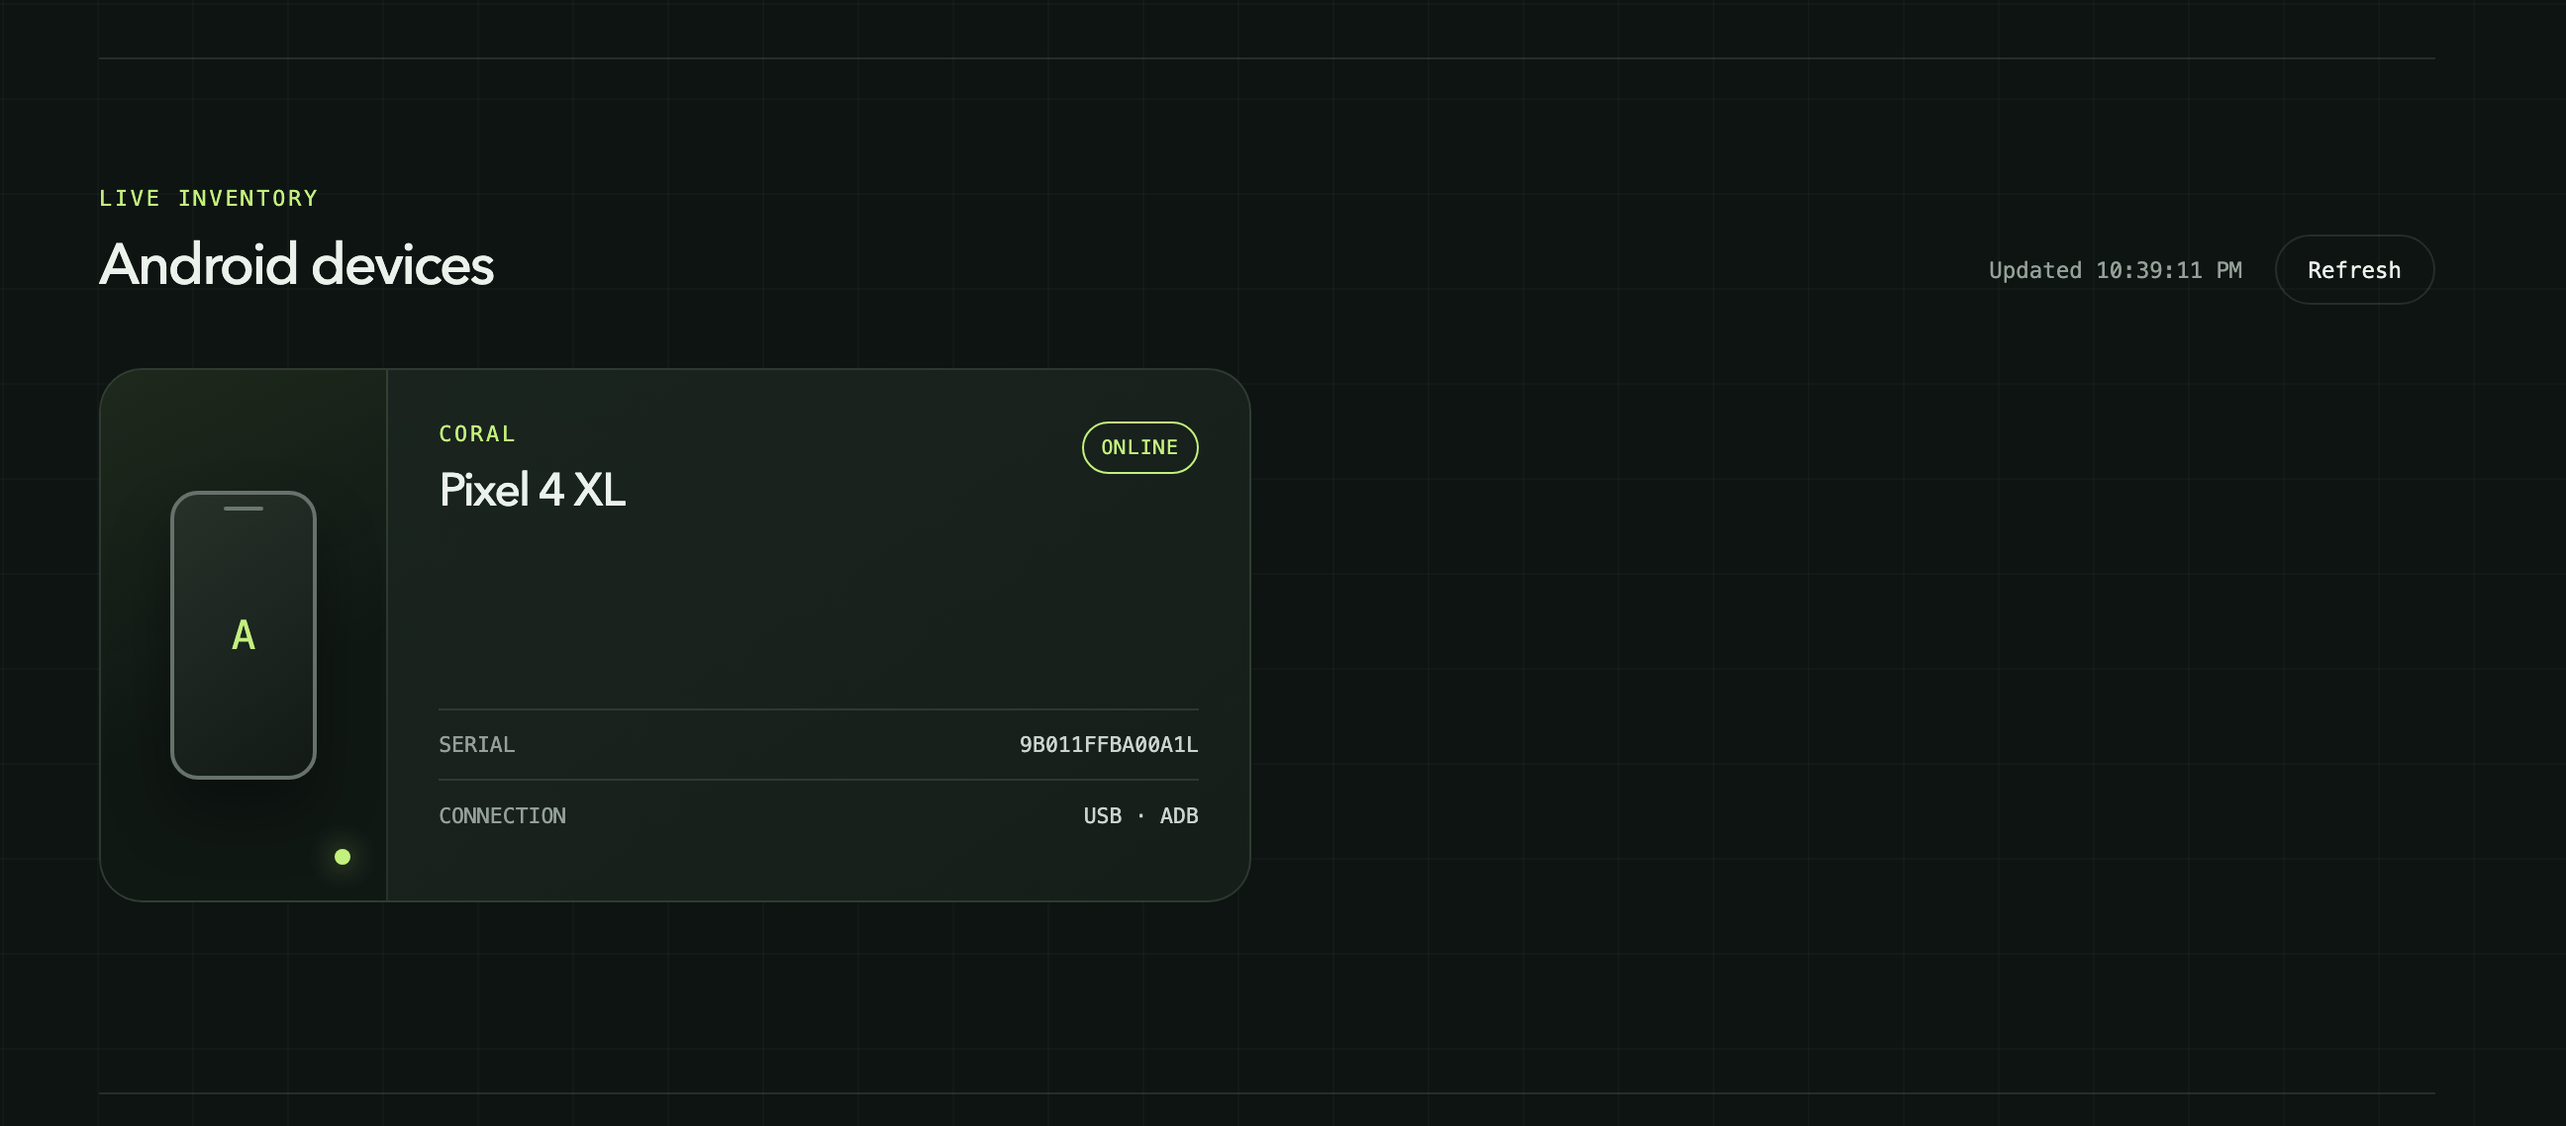
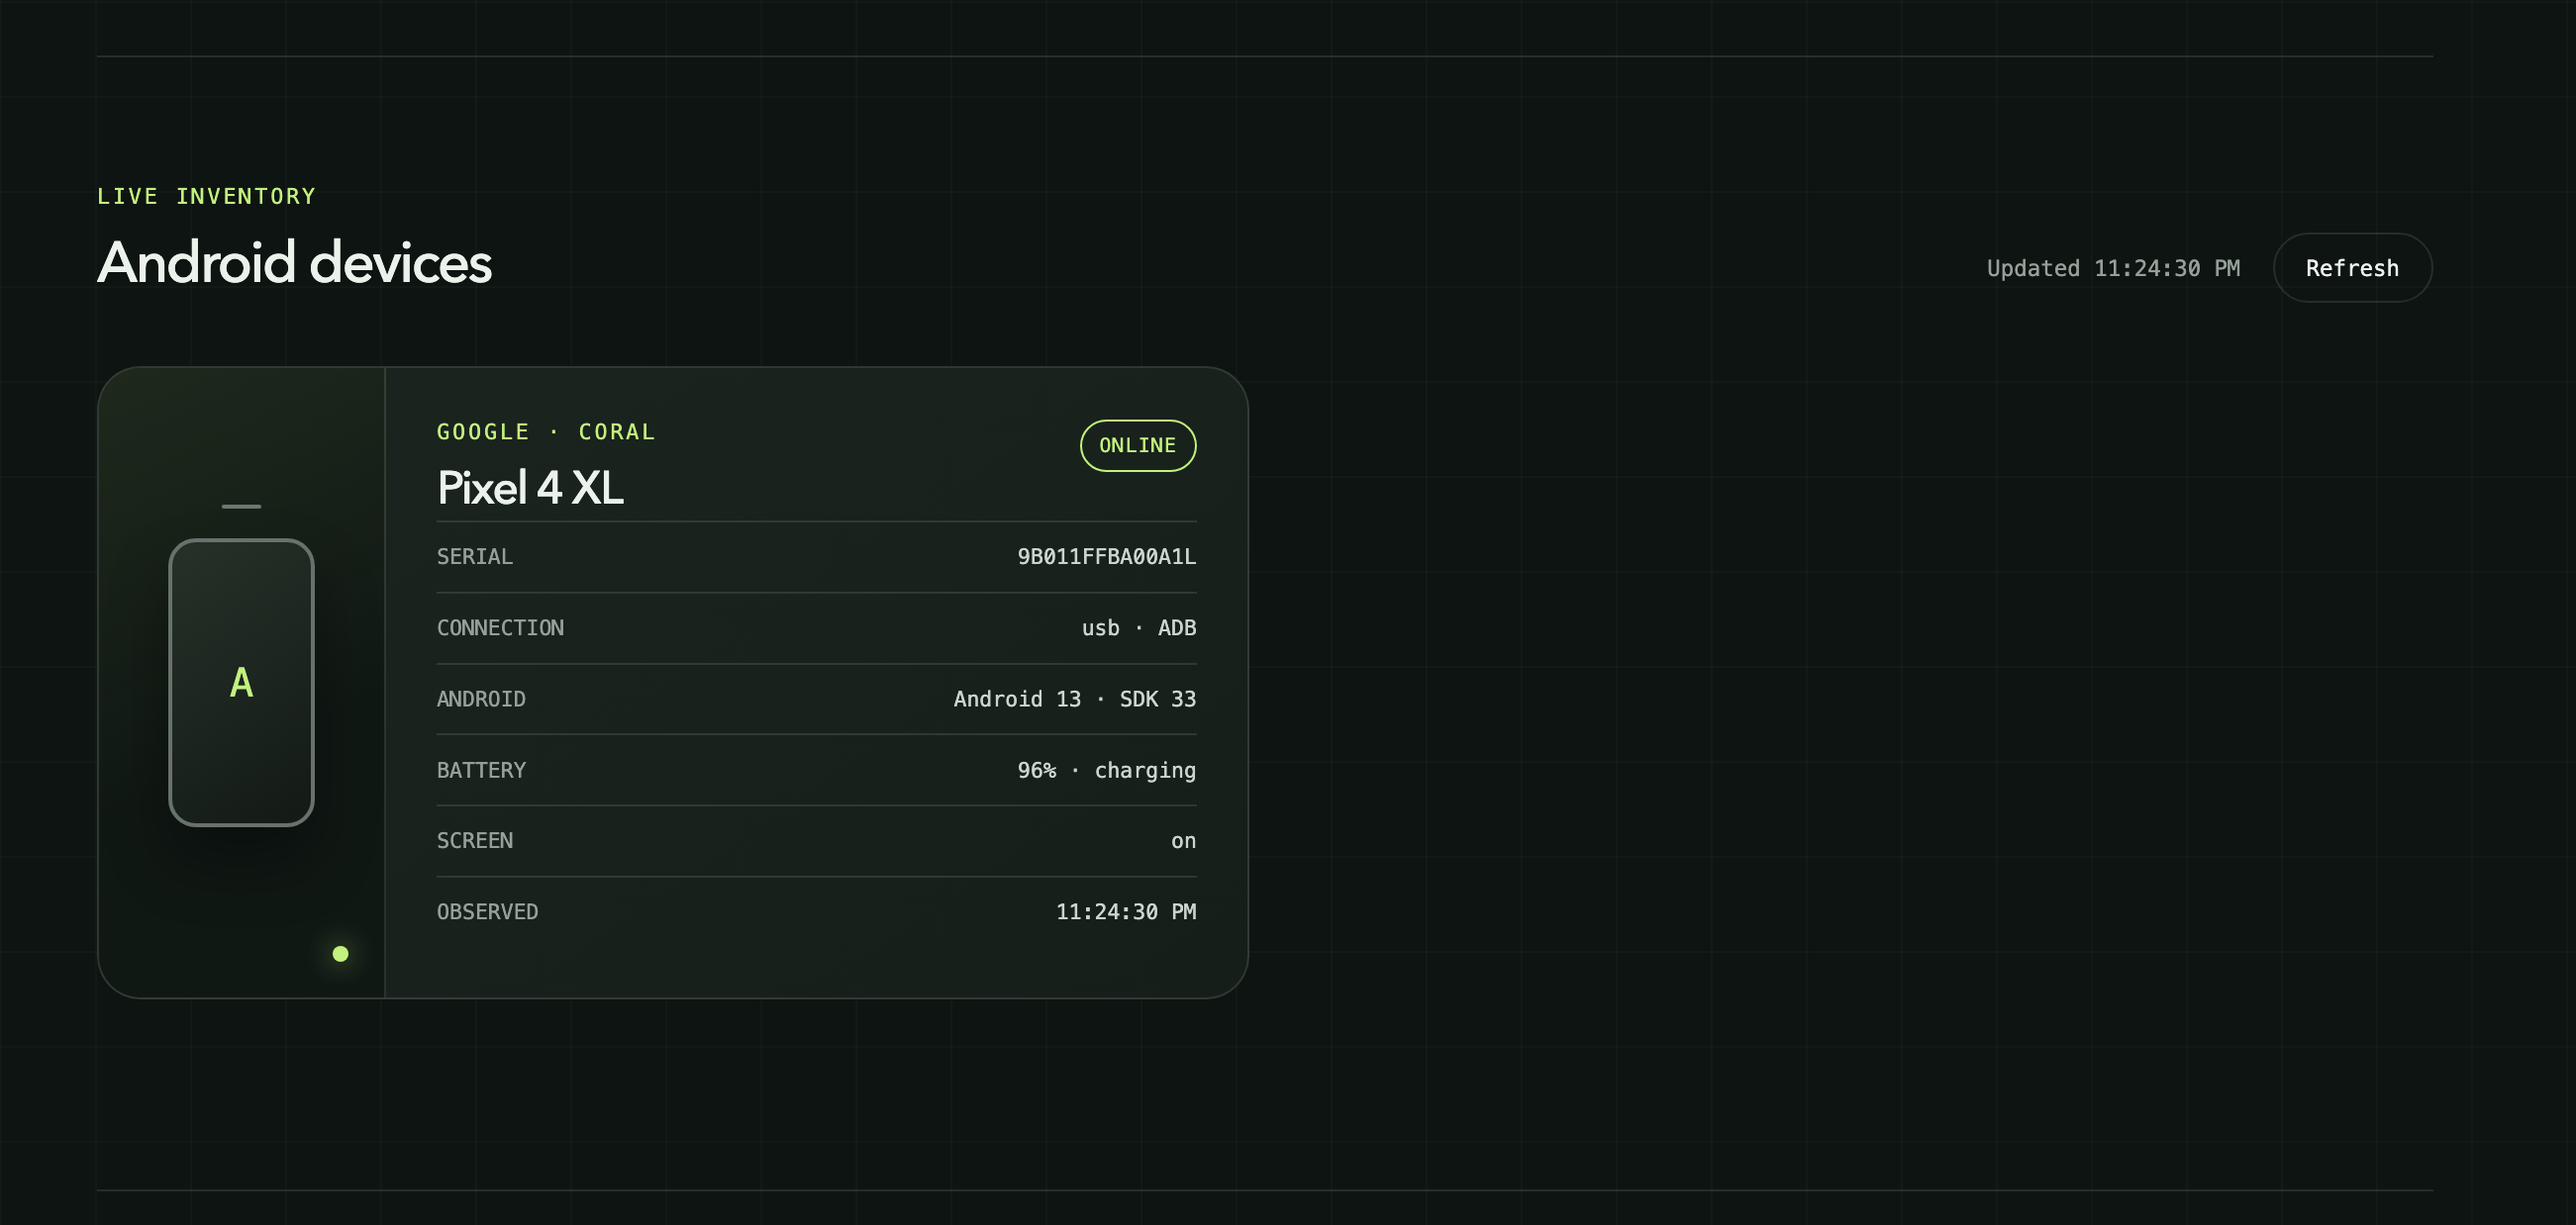
Update docs dashboard screenshot

diff --git a/docs/index.md b/docs/index.md
@@ -15,9 +15,9 @@ PocketPortal is a self-hosted control plane that makes real Android hardware ava
   <a href="assets/android-device-dashboard.png">
     <img
       src="assets/android-device-dashboard.png"
-      alt="PocketPortal live inventory showing an online Pixel 4 XL connected over USB and ADB"
-      width="2592"
-      height="1138"
+      alt="PocketPortal live inventory showing an online Pixel 4 XL with Android version, battery, screen, connection, and observation details"
+      width="2602"
+      height="1238"
     >
   </a>
   <figcaption>Live inventory from the first Android device connected to PocketPortal.</figcaption>
